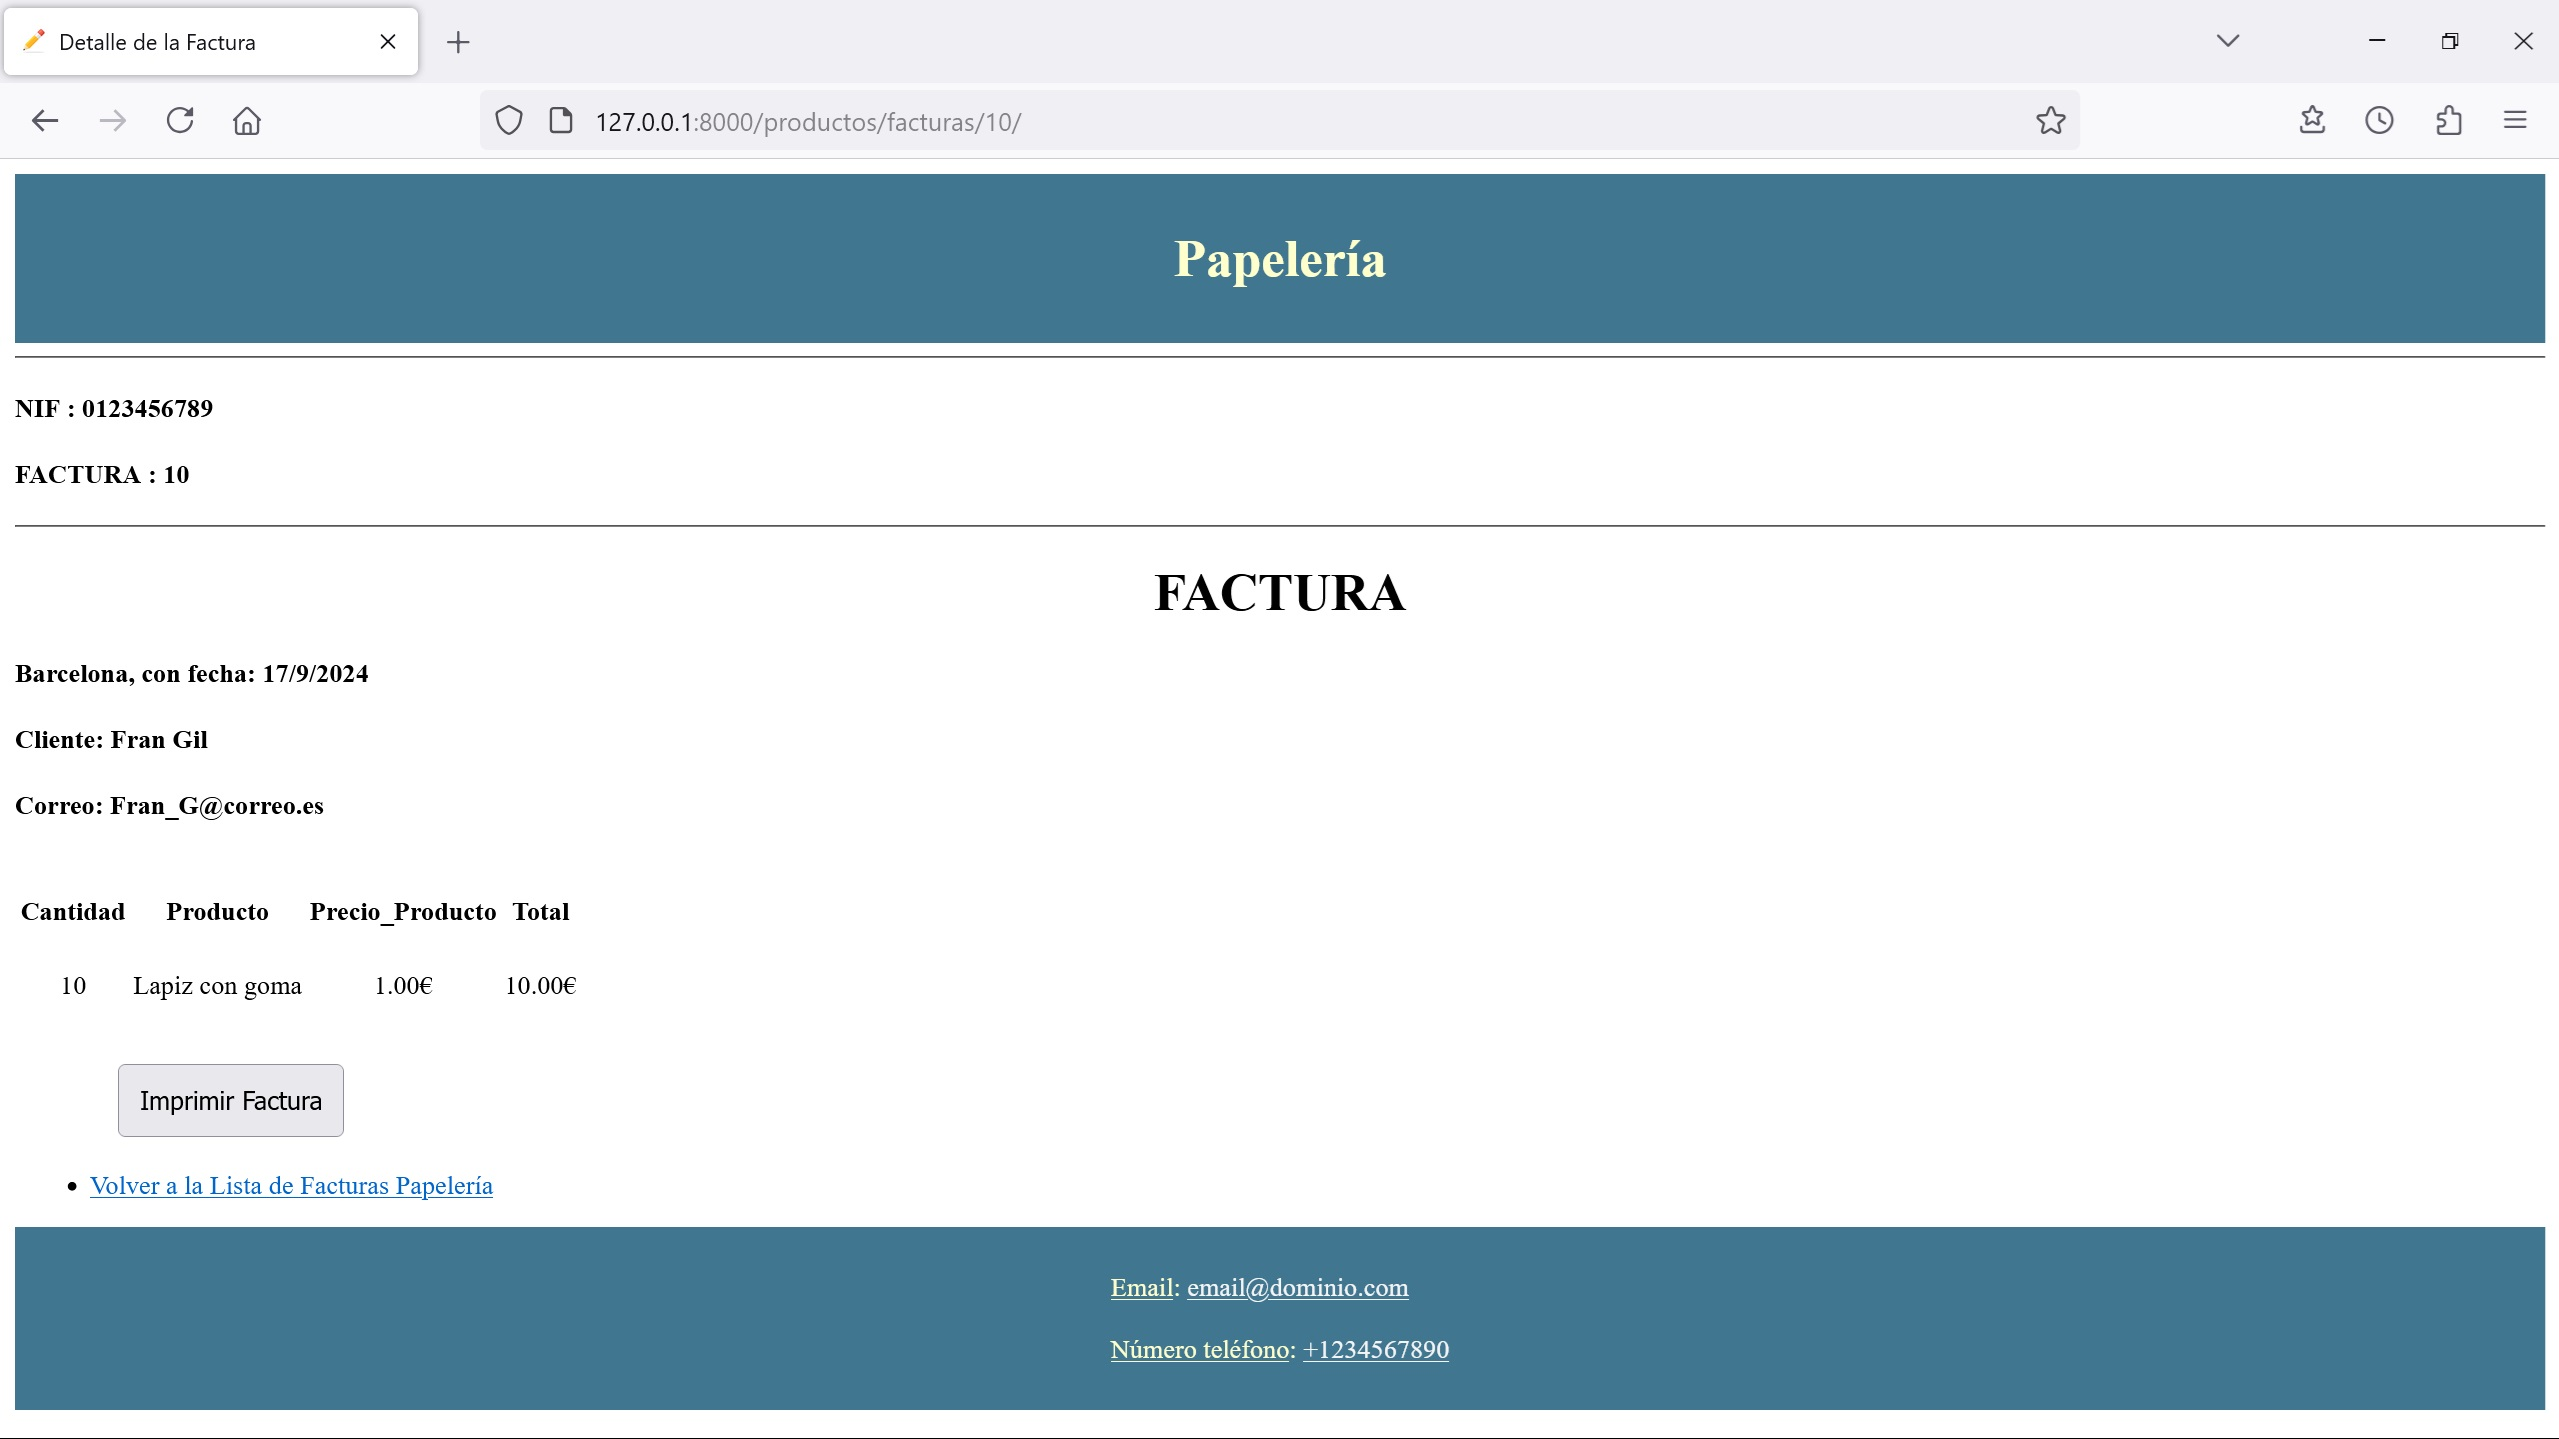
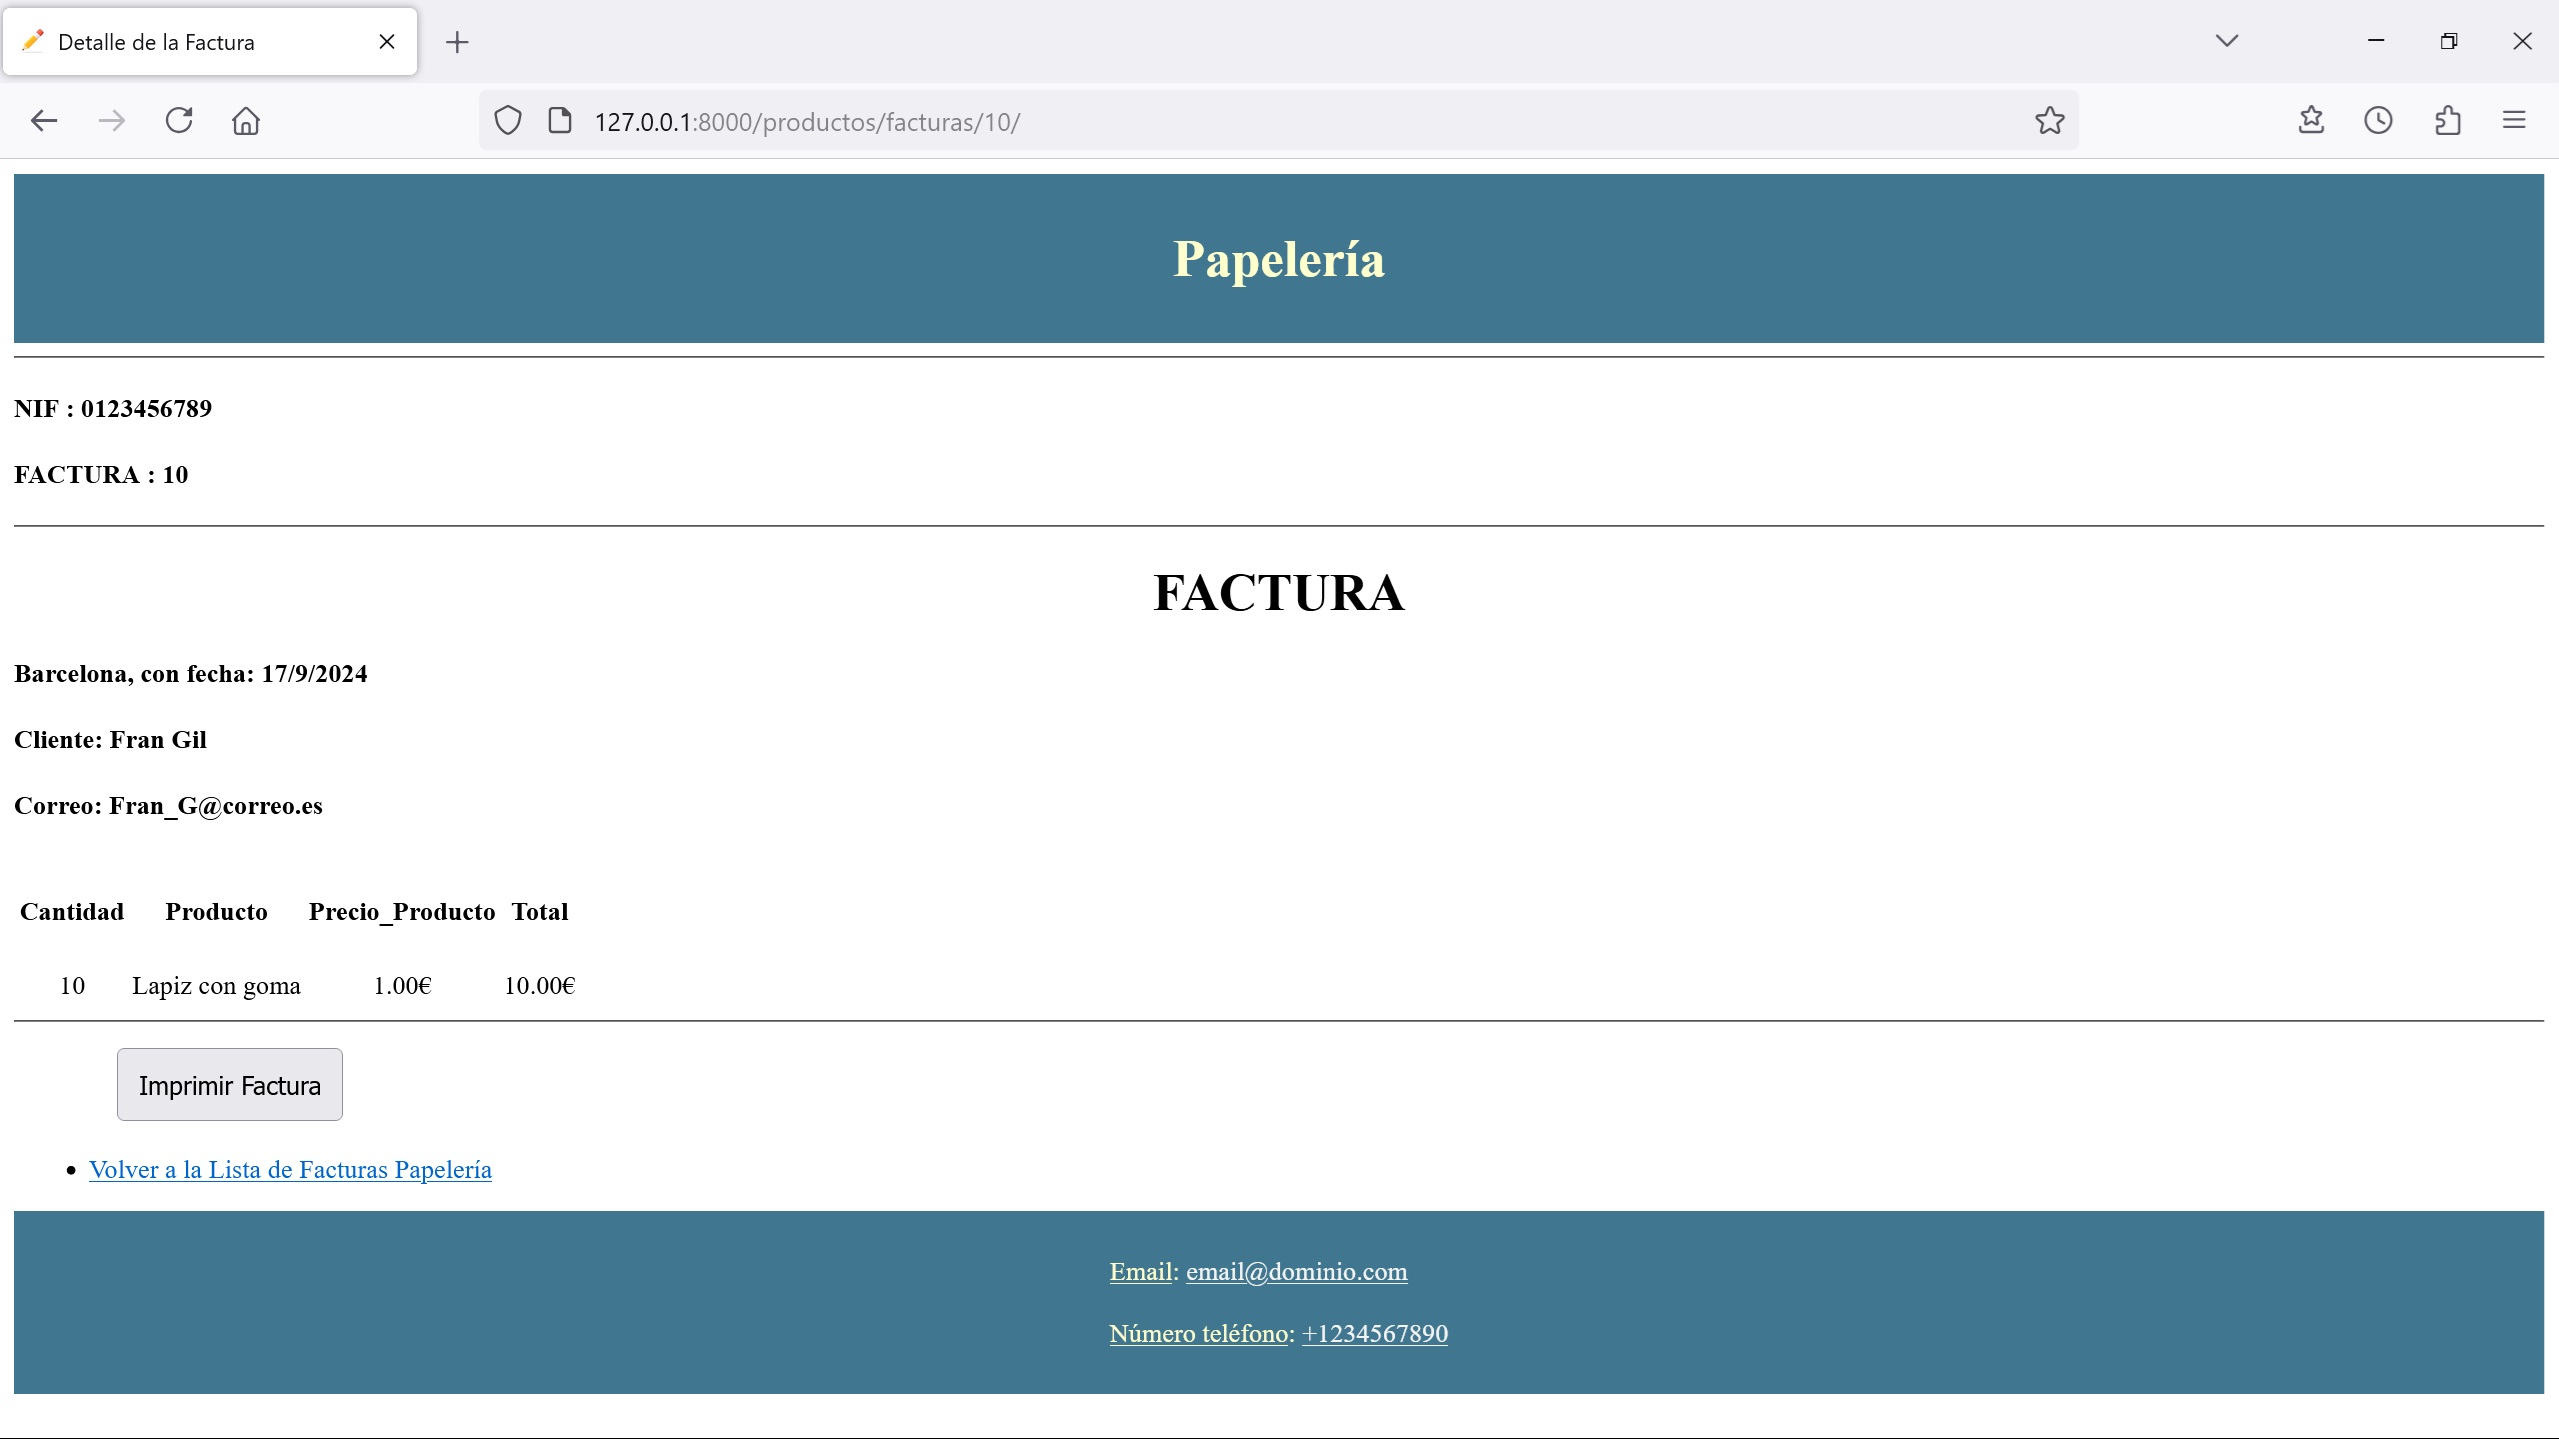
Se modifica Impresión Factura y documentación al Proyecto Final

diff --git a/Proyecto_Final/Gestion_Productos/myapp/templates/factura_detail.html b/Proyecto_Final/Gestion_Productos/myapp/templates/factura_detail.html
@@ -44,7 +44,7 @@
 		</tr>
 	</tbody>
 </table>
-<br>
+<hr />
     <div>
 		<ul>
 		<button onclick="window.print();">Imprimir Factura</button>
